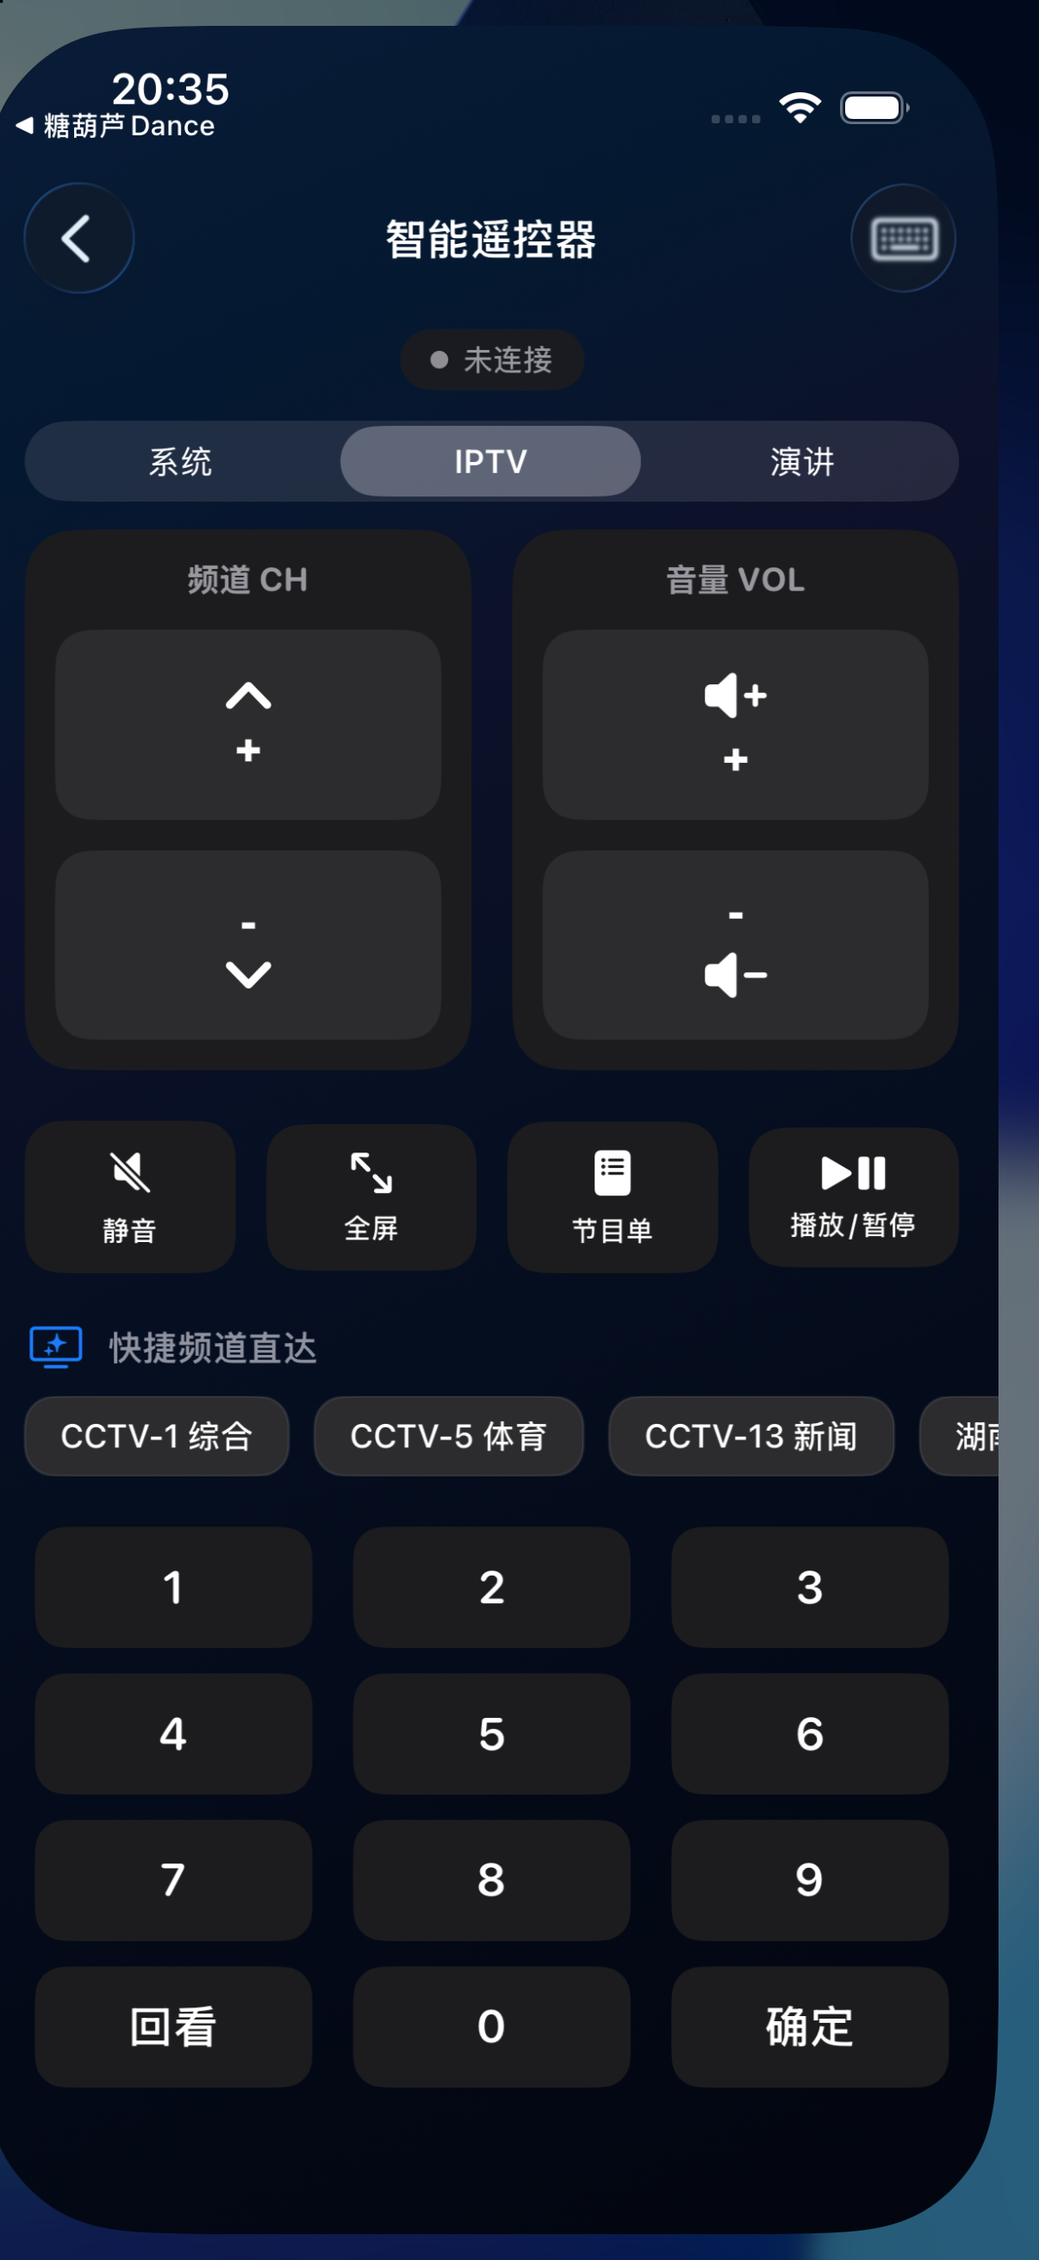
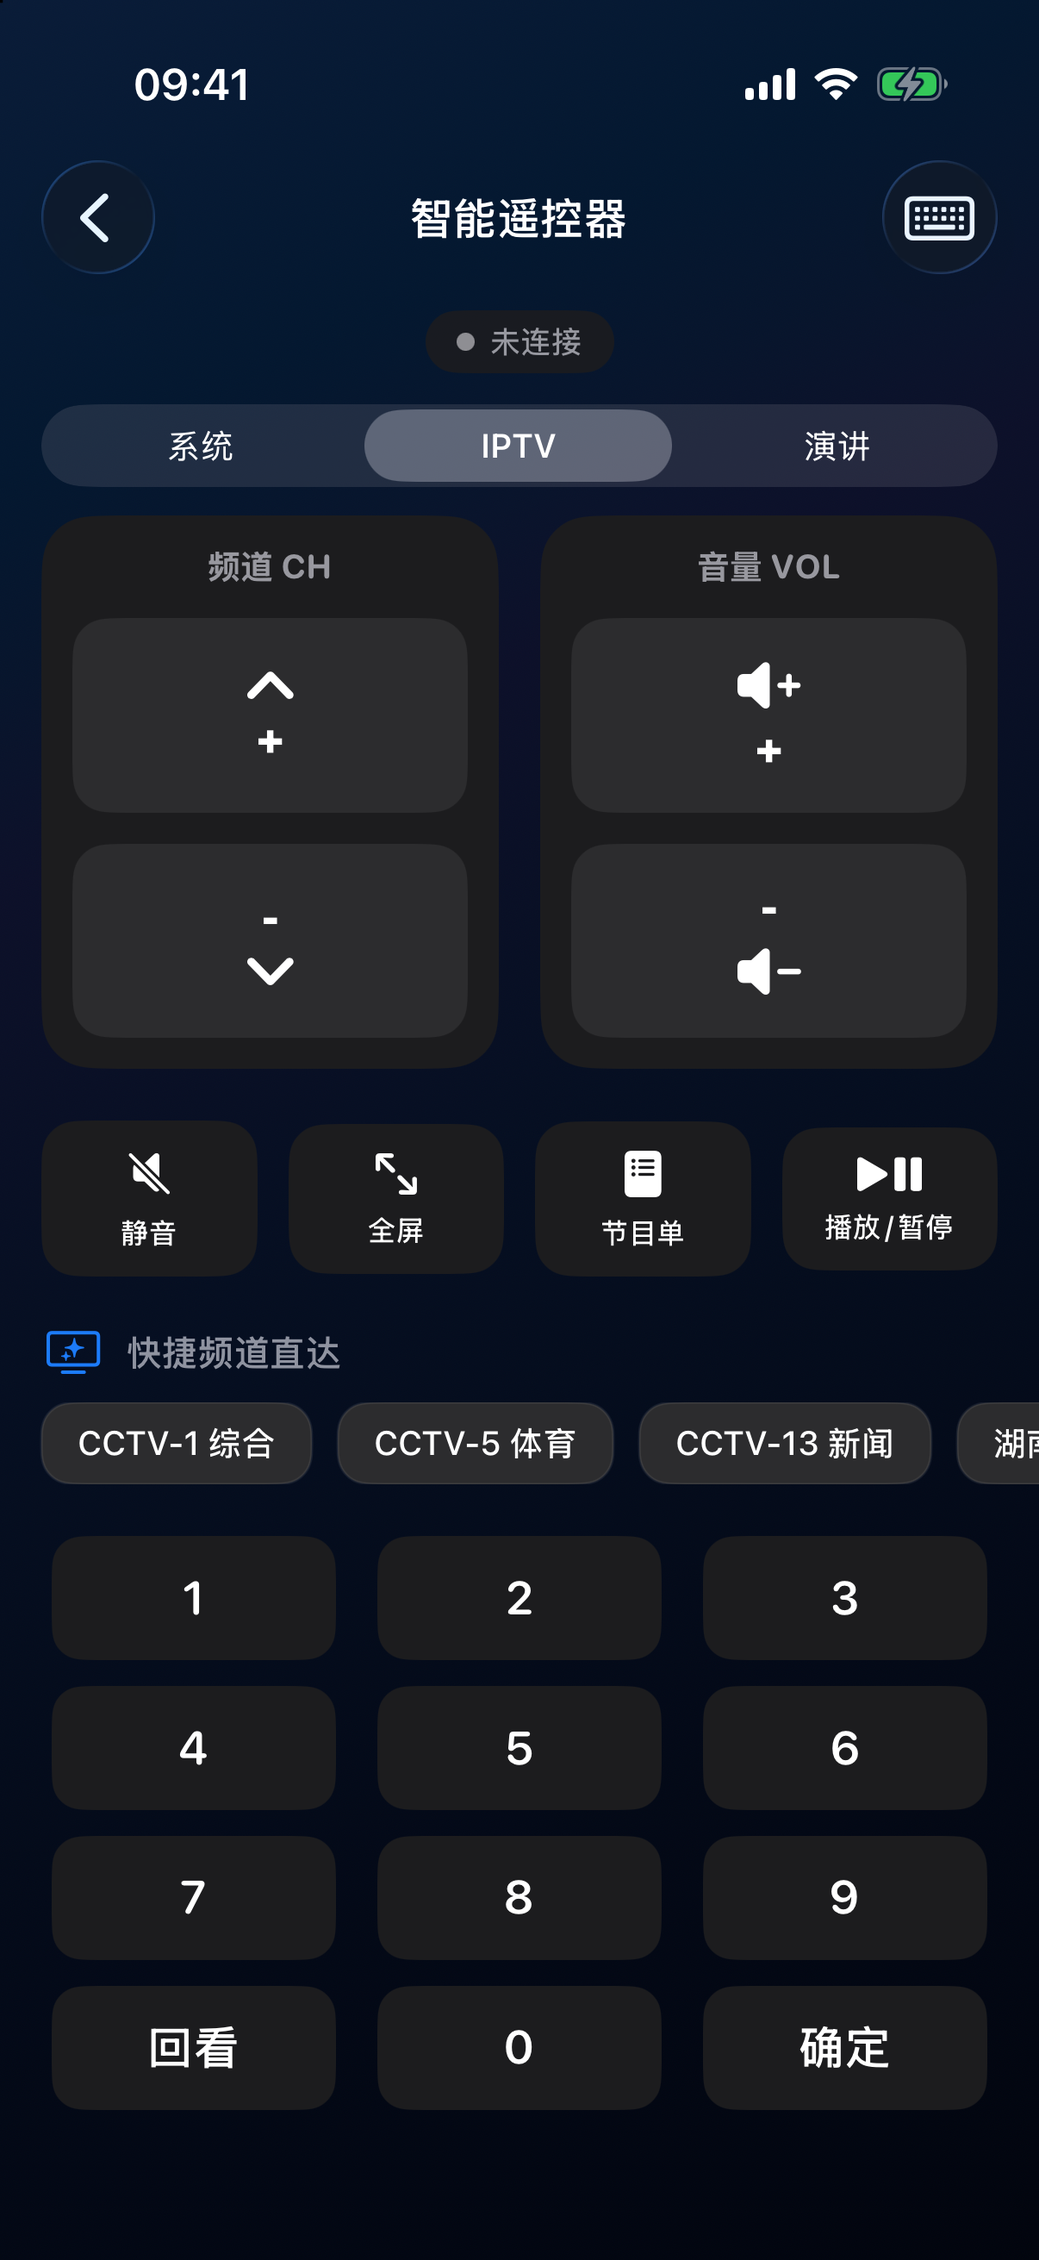
docs: 重构更新 README.md 并同步替换 App Store 官方标准 4K 纯净实机截图 (v1.0.0)

diff --git a/README.md b/README.md
@@ -1,105 +1,188 @@
-# 🍬 糖葫芦浏览器与智能遥控 (Tanghulu Remote & Browser)
+# 🍬 糖葫芦遥控器 (Tanghulu Smart Remote & Browser)
 
-![Platform](https://img.shields.io/badge/Platform-iOS%20%7C%20tvOS%20%7C%20watchOS-blue.svg?style=for-the-badge)
-![Swift](https://img.shields.io/badge/Swift-5.9+-orange.svg?style=for-the-badge)
-![AI](https://img.shields.io/badge/Edge%20AI-MLX%20%7C%20CoreML-purple.svg?style=for-the-badge)
-![TestFlight](https://img.shields.io/badge/TestFlight-Beta-0070C9.svg?style=for-the-badge)
+![Platform](https://img.shields.io/badge/Platform-iOS%2017.0+%20%7C%20watchOS%2010.0+%20%7C%20tvOS%2017.0+-007AFF.svg?style=for-the-badge&logo=apple)
+![Swift](https://img.shields.io/badge/Swift-5.9+-FA7343.svg?style=for-the-badge&logo=swift)
+![AI](https://img.shields.io/badge/Edge%20AI-MLX%20LLM%20%7C%20CoreML-8A2BE2.svg?style=for-the-badge&logo=openai)
+![Version](https://img.shields.io/badge/Version-1.0.0-34C759.svg?style=for-the-badge)
+![License](https://img.shields.io/badge/License-Proprietary-gray.svg?style=for-the-badge)
 
-> **“将边缘计算与 Apple 极致生态完美融合的客厅革命。”**
-> 
-> 糖葫芦不仅是一款专为智能电视和 Apple TV 设计的增强型遥控与大屏浏览器应用，更是一个**基于端侧大模型 (On-Device LLM)** 与 **实时计算机视觉 (Vision)** 构建的多屏互动引擎。它旨在打破物理遥控器的限制，重塑大屏多媒体娱乐、跨设备通讯及无障碍浏览的极致体验。
-
----
-
-## 📸 应用展示 (Screenshots)
-
-| 设备发现 | 浏览器控制 |
-| :---: | :---: |
-| <img src="screenshot/设备发现.PNG" width="300" /> | <img src="screenshot/浏览器控制.PNG" width="300" /> |
-| **视频控制** | **设置** |
-| <img src="screenshot/视频控制.PNG" width="300" /> | <img src="screenshot/设置.PNG" width="300" /> |
+> **“融合端侧前沿大模型与 Apple 极致生态的客厅大屏交互革命。”**
+>
+> 糖葫芦遥控器（`HSBRemoteBrowserTV` / `HSBWatchCompanion`）是一款专为 **Apple TV** 与客厅智能大屏量身定制的**双模无线遥控与端侧 AI 交互中心**。它不仅打破了传统实体遥控器的单一物理按键限制，更基于 **Apple Silicon MLX 纯血端侧大模型矩阵**、**5.5x 微操触控板**、**RTI 实时软键盘同步** 与 **大屏 WebKit 深度控制通道**，为用户带来影音娱乐、网页浏览、文档演说与智能管家的极致交互体验。
 
 ---
 
-## 🔥 核心特性与技术巅峰 (Core Features)
+## 📸 精选界面展示 (Screenshots)
 
-### 🤖 1. 端侧大模型驱动 (On-Device Edge AI)
-* **私有大模型算力中心**：创新性地将 iOS App (iPhone/iPad) 化身为“掌上 AI 服务器”。通过深度集成 `MLX-Swift` 与 `CoreML`，在本地直接运行先进的大语言模型 (LLM)，并为局域网内的 Apple TV (tvOS) 提供毫无延迟的专属翻译与智能推理服务，彻底摆脱云端依赖，数据 100% 隐私绝对安全。
-* **智能页面重构**：大模型根据大屏浏览场景，实时生成并注入 JavaScript 脚本，自动屏蔽广告、提取核心视频流、重排复杂网页，实现“PC 端网页，电视端顶级体验”。
-* **断点续传加载**：自研高可用大模型下载与存储引擎，支持超大参数模型的断点续传与动态分块加载，榨干极致性能。
-
-### 👁 2. 毫秒级 OCR 视频实时字幕翻译 (Real-time Vision Translation Pipeline)
-* **动态视觉捕获**：利用 Apple Vision 框架，精准锁定大屏视频底部 20% 的字幕区域，在 60FPS 的视频播放中实现无掉帧的文字提取。
-* **高性能内存池 (Flyweight Pattern)**：独创的翻译缓存调度机制与 NSCache 享元模式拦截重复请求，配合严格的并发锁与自动释放池 (Autoreleasepool) 彻底消除循环引用，将翻译延迟降至毫秒级。
-
-### ⚡ 3. 超低延迟 P2P 局域网通讯 (Ultra-low Latency Network)
-* **空间控制引擎**：通过底层 UDP 广播、多播 DNS (Bonjour) 协议及自动 NAT 穿透，实现 iPhone/Apple Watch 与 Apple TV 之间的极速发现与连接。
-* **高帧率光标与手势**：指尖滑动即刻同步电视光标，支持 120Hz 丝滑触控映射，彻底告别传统红外/蓝牙遥控器的迟滞感。
-
-### ⌚ 4. 苹果全家桶生态协同 (Apple Ecosystem Synergy)
-* **watchOS 独立主控**：在 Apple Watch 上直接控制电视播放进度、音量与焦点，抬腕即控。
-* **三端状态同步**：iOS (Remote)、tvOS (Player/Browser)、watchOS (Companion) 三端无缝流转，书签、历史记录与播放状态跨设备实时同步。
-
-### 🧩 5. 糖葫芦全生态矩阵万能遥控 (Universal Ecosystem Controller)
-作为糖葫芦生态的核心枢纽，iOS 遥控器能智能识别当前大屏端运行的应用类型，并动态提供专属的控制与 AI 服务面板：
-* **🌐 糖葫芦浏览器 (Tanghulu Browser)**：将手机化身为 120Hz 高精度触控板。实现大屏上的丝滑光标移动、多标签页快速切换与 DOM 元素精准点击；同时直接调用手机端大模型，为大屏网页提供实时翻译与动态去广告脚本。
-* **📺 糖葫芦TV (Tanghulu TV)**：提供沉浸式的影音追踪面板。支持极速盲操拖拽进度条、音量调节，以及一键切换多语言音轨与外挂字幕；并能一键唤醒大屏 OCR 实时提取，由手机端 AI 返回超低延迟的字幕翻译。
-* **🛜 糖葫芦投屏 (Tanghulu Cast)**：实现流媒体的零延迟精准掌控，双端极速同步投屏播放状态。独创的互动通道，让您在手机端键盘打字即可直接将弹幕、消息或控制指令发送至电视大屏。
-* **📄 糖葫芦PDF (Tanghulu PDF)**：大屏演说级翻页神器。将手机化身为专业幻灯片激光笔，支持盲滑翻页、极速跳页，甚至能通过手机直接在大屏文档上对核心文本或图片进行焦点批注，是会议汇报与教学演示的完美搭档。
+| 1. 系统级双模遥控 | 2. IPTV 直播流控制 | 3. PDF 大屏演说投屏 |
+| :---: | :---: | :---: |
+| <img src="HSBWatchApp/fastlane/screenshots/zh-Hans/1_system_remote.png" width="260" /> | <img src="HSBWatchApp/fastlane/screenshots/zh-Hans/2_iptv_remote.png" width="260" /> | <img src="HSBWatchApp/fastlane/screenshots/zh-Hans/3_pdf_presentation.png" width="260" /> |
+| **4. AI 模型管理中心** | **5. AI 智能助手调用** | **6. 糖葫芦生态矩阵** |
+| <img src="HSBWatchApp/fastlane/screenshots/zh-Hans/5_ai_model_center.png" width="260" /> | <img src="HSBWatchApp/fastlane/screenshots/zh-Hans/6_ai_assistant.png" width="260" /> | <img src="HSBWatchApp/fastlane/screenshots/zh-Hans/4_ecosystem_about.png" width="260" /> |
 
 ---
 
-## 🧭 技术路线与架构演进 (Architecture & Roadmap)
+## 🔥 核心特性与技术亮点 (Core Features)
 
-本项目采用超大规模工程要求的**模块化 Monorepo 架构**进行开发，确保极高的可维护性与扩展性：
-
-- 🧱 **Framework 级解耦**：彻底剥离基础组件 (`HSBCommon`)、通讯矩阵 (`HSBShare`) 与核心业务 (`HSBBrowser`)，通过严格的头文件管理与依赖注入，实现多 Target 极速编译。
-- 🛡 **内存与并发安全**：抛弃易致死锁的传统 GCD 堆砌，全面拥抱 Swift 现代并发模型 (`async/await`, `Actor` 隔离)，保障极端长链接与重度 AI 推理下的 0 崩溃率。
-
----
-
-## 🚀 快速体验 (TestFlight Beta)
-
-我们诚邀您感受未来客厅的交互形态，加入我们的公开 Beta 测试：
-
-👉 **[点击这里，立刻加入 TestFlight 抢先体验](https://testflight.apple.com/join/uZz9NZz4)**
-
-*(支持设备：iPhone / iPad / Apple TV / Apple Watch)*
+### 🔀 1. 双模无线遥控架构 (Dual-Mode Remote Architecture)
+独创双通道协同遥控体系，兼顾系统级实体控制与大屏网页深度交互：
+* **大屏专有浏览器通道 (Screen Channel)**：
+  - 与 tvOS 端「hsbtvbrowser」大屏浏览器基于 Bonjour `_thltv._tcp` 专有协议长链接通信；
+  - **5.5x 超高灵敏度微操触控板**：内置 1000×1000 虚拟空间坐标重置算法，手指滑动无死角；
+  - **丝滑惯性滑动**：采用 8 阶二次缓出 (Quad Ease-Out) 60FPS 衰减曲线，呈现丝滑自然的阻尼滚动手感；
+  - **大屏 WebKit 深度控制**：支持原生 DOM 元素拾取、精准点击、长按选区拖拽与动态 JavaScript 脚本实时注入。
+* **Apple TV 原生系统通道 (Native Channel)**：
+  - 针对 tvOS 操作系统级底座，支持 Bonjour 并发扫描与端口多路唤醒 (3689 / 7000 / 49152)；
+  - 提供系统级 **Home 键**、**Menu 返回键**、**设备休眠/唤醒**、以及机身侧边实体物理音量键双向静默联动；
+  - 即便 tvOS 浏览器未开启或置于后台，依然能作为全功能 Apple TV 原生遥控器使用。
 
 ---
 
-## 🛠 开发者：编译与部署指南 (Build & Deployment)
+### 🤖 2. 端侧纯血 MLX 大模型矩阵 (On-Device Edge AI Matrix)
+创新性地将 iPhone 打造为“客厅边缘 AI 推理算力中心”，深度整合 `mlx-swift` 与 Apple Silicon 神经引擎，实现 100% 本地离线运行，零云端隐私泄露风险：
 
-本项目涵盖了 iOS、tvOS 和 watchOS 端的全套源码。如果您是开发者并希望参与构建：
+| 官方推荐模型 | 仓库标识 (Repo ID) | 模型定位 | 核心业务场景 |
+| :--- | :--- | :---: | :--- |
+| **Qwen1.5-0.5B (官方推荐)** | `mlx-community/Qwen1.5-0.5B-Chat-4bit` | 轻量多语言通识 | **场景 1：同声传译**（中英日韩多语言即时互译与字幕校对） |
+| **SmolLM-135M (极速体验)** | `mlx-community/SmolLM-135M-Instruct-4bit` | 毫秒级极速响应 | **场景 2：电视控制 JS 脚本生成**（全屏、夜间模式、去广告、样式重排） |
+| **Gemma-2-2B-IT (深度推理)** | `mlx-community/gemma-2-2b-it-4bit` | Google 深度指令遵循 | **场景 3：客厅智能管家**（Apple TV 连接排障、HDMI-CEC 联动、客厅百科问答） |
 
-### 1. 极致的开发环境要求
-- **IDE**: Xcode 15.0 及以上版本 (建议最新)
-- **OS**: macOS 14.0+ (Sonoma 及以上)
-- **Swift**: 5.9+ (深度使用宏与现代并发)
-- **System SDKs**: iOS 15.0+ / watchOS 8.0+ / tvOS 15.0+
+* **完整生命周期管理**：支持一键多源断点下载、国内镜像加速通道 (`hf-mirror.com`)、高精度百分比进度条流转、暂停/恢复；
+* **错误自愈与死锁防护**：底层遇到弱网或中断发出的 `-1.0` 错误信号，毫秒级转入 `Failed` 状态并重置进度，解除假死，支持随时一键重试；
+* **物理缓存安全清理**：支持左滑清除本地沙盒 Safetensors 权重文件并安全解绑反激活，释放宝贵的手机存储空间；
+* **自定义大模型 API 模式**：兼容 OpenAI / DeepSeek / Ollama（局域网私有部署）/ LM Studio 标准 `/chat/completions` 协议，无需下载大体积权重即可秒连私有算力；
+* **三级容错无缝兜底**：物理大模型未激活、显存不足或处于模拟器环境时，**100% 自动降级至内置离线端侧智能引擎**，保证零白屏、零报错、秒级流式打字输出。
 
-### 2. 自动化构建与本地运行
-```bash
-# 1. 获取最新源码并进入工程目录
-git clone https://github.com/your-org/HSBRemoteBrowserTV.git
-cd HSBRemoteBrowserTV
+---
 
-# 2. 启动 Xcode 工作空间 (请打开 .xcworkspace)
-open HSBWatchApp.xcworkspace
+### ⌨ 3. RTI 实时软键盘大屏输入同步 (Real-Time Text Input)
+* **大屏输入痛点终结者**：告别使用传统遥控器在电视屏幕上逐字移动光标输入的痛苦体验；
+* **实时键盘流**：手机端直接调起系统级软键盘，拼音、英文、符号输入即时单向/双向推送到 Apple TV 当前聚焦的输入框或搜索栏中。
 
-# 3. 依赖解析 (SPM)
-# 项目内置数十个 SPM 依赖（如 mlx-swift, yyjson, swift-transformers 等）
-# Xcode 将在首次打开时自动解析并编译 Metal 加速内核。
+---
 
-# 4. 选择对应平台的 Target (HSBBrowserApp / HSBWatchCompanion) 并 Cmd+R 运行。
+### 📺 4. 客厅流媒体与演说全生态矩阵 (Tanghulu Ecosystem Matrix)
+* **🌐 糖葫芦浏览器 (Tanghulu Browser)**：电视大屏 WebKit 网页无障碍浏览，支持广告智能过滤与夜间护眼配色；
+* **📺 IPTV 直播流多频道路由**：提供客厅电视直播流频道快捷切换、电子节目单 (EPG) 浏览与媒体全屏控制；
+* **📄 糖葫芦 PDF 大屏演说神器**：会议与课堂汇报利器，手机化身为激光笔与无线翻页器，支持极速跳页与大屏批注；
+* **⌚ watchOS 独立随身主控**：配备独立的 Apple Watch 应用，抬腕即可调控电视播放、音量与导航。
+
+---
+
+## 🏛 核心系统架构图 (Architecture)
+
+```mermaid
+flowchart TD
+    subgraph Client["📱 iOS 配套端 (HSBWatchCompanion)"]
+        UI["Modern UI 面板\n(D-Pad / 触控板 / 键盘 / AI中心)"]
+        Coordinator["DualModeRemoteCoordinator\n(双模通讯协调器)"]
+        LLMManager["HSBLocalLLMManager\n(AI 引擎三级调度中心)"]
+    end
+
+    subgraph Channels["📡 双模无线通信通道"]
+        ScreenCh["大屏专有通道 (Screen Channel)\nBonjour _thltv._tcp JSON / 5.5x 微操"]
+        NativeCh["Apple TV 原生通道 (Native Channel)\nCompanion / MRP / 端口唤醒"]
+    end
+
+    subgraph TV["📺 客厅大屏设备 (Apple TV)"]
+        TVOS_Browser["tvOS hsbtvbrowser 应用\n(WebKit / DOM点击 / JS注入)"]
+        TVOS_System["tvOS 系统底座\n(Home / Menu / 音量 / 休眠唤醒)"]
+    end
+
+    subgraph AI_Engine["🧠 AI 算力矩阵"]
+        MLX_Physical["端侧纯血 MLX 物理大模型\n(Qwen1.5 / SmolLM / Gemma-2)"]
+        Custom_API["自定义大模型 API 模式\n(Ollama / DeepSeek / OpenAI)"]
+        Builtin_Engine["内置离线端侧智能引擎\n(100% 秒级兜底保障)"]
+    end
+
+    UI --> Coordinator
+    UI --> LLMManager
+    Coordinator --> ScreenCh --> TVOS_Browser
+    Coordinator --> NativeCh --> TVOS_System
+    LLMManager --> MLX_Physical
+    LLMManager --> Custom_API
+    LLMManager -. 降级兜底 .-> Builtin_Engine
+    LLMManager -- 生成控制脚本 --> ScreenCh
 ```
 
 ---
 
-## 💬 参与共建与技术反馈
+## 🧪 自动化测试与质量验收 (Testing & Verification)
 
-糖葫芦遥控器的成长离不开极客与用户的支持。
-- **ISSUE 追踪**：如果遇到任何功能异常或有狂野的功能构想，请提交 GitHub Issue。
-- **App 内直连**：通过“设置 -> 反馈”实时上传运行日志以协助排查。
+项目内置针对端侧大模型全生命周期与双模通信的自动化集成测试套件 [`HSBLLMVerificationTest.m`](HSBWatchApp/HSBWatchCompanion/HSBLLMVerificationTest.m)，经由多代理团队与独立法医级审计代理 **Sentinel Victory Auditor** 验证，通过率 **100% (Pass: 11, Fail: 0)**：
+
+- ✅ **Test 1**：三大官方大模型初始化与 ID 规范校验通过
+- ✅ **Test 2**：三大官方大模型远端镜像源连通正常 (HTTP 200)
+- ✅ **Test 3**：模型下载状态机流转 (None -> Downloading 42% -> Finished 100%) 与通知正常
+- ✅ **Test 4**：捕获异常信号自动转为 Failed 状态并重置进度，彻底解除死锁与假死
+- ✅ **Test 5**：本地缓存检测与安全删除接口运转正常 (沙盒权重安全清除与解绑)
+- ✅ **Test 6.1**：模型 1 (Qwen1.5-0.5B) 激活并完成【同声传译】多语言业务调用
+- ✅ **Test 6.2**：模型 2 (SmolLM-135M) 激活并生成【电视控制 JS 脚本】(`requestFullscreen`)
+- ✅ **Test 6.3**：模型 3 (Gemma-2-2B-IT) 激活并完成【智能管家问答】结构化解答
+- ✅ **Test 7**：自定义大模型 API 模式（Ollama/DeepSeek）状态与描述联动正常
+- ✅ **Test 8**：物理模型空置或弱网异常时，100% 自动无缝降级至内置端侧智能引擎并正确生成 JS 脚本
+- ✅ **Test 9**：环境防御与工程规范校验通过 (产物版本号严格为 1.0.0, 模拟器 Metal 算子安全隔离生效, 环境变量防御就绪)
+
+---
+
+## 🛠 编译与开发指南 (Build & Run Guide)
+
+### 1. 开发环境要求
+- **macOS**: 14.0+ (Sonoma 或更高版本，建议 Apple Silicon M 系列芯片)
+- **Xcode**: 15.0+ / 16.0+
+- **SDK 要求**: iOS 17.0+ / watchOS 10.0+ / tvOS 17.0+
+- **依赖管理**: Swift Package Manager (SPM，内置自动解析 `mlx-swift`, `swift-transformers` 等)
+
+### 2. 源码获取与工程构建
+```bash
+# 1. 克隆代码仓库并进入工程目录
+git clone https://github.com/never88gone/HSBRemoteBrowserTV.git
+cd HSBRemoteBrowserTV
+
+# 2. 使用 Xcode 打开主工程
+open HSBWatchApp/HSBWatchApp.xcodeproj
+
+# 3. 命令行静默编译检查 (iOS 配套端)
+xcodebuild -project HSBWatchApp/HSBWatchApp.xcodeproj \
+           -scheme HSBWatchCompanion \
+           -configuration Debug \
+           -destination 'generic/platform=iOS' \
+           build
+
+# 4. 命令行静默编译检查 (Apple Watch 端)
+xcodebuild -project HSBWatchApp/HSBWatchApp.xcodeproj \
+           -scheme 'HSBWatchApp Watch App' \
+           -configuration Debug \
+           -destination 'generic/platform=watchOS' \
+           build
+```
+
+### 3. 在模拟器中快速运行自动化测试套件
+```bash
+# 启动 iPhone 模拟器并执行内置大模型全生命周期自检套件
+xcrun simctl launch --terminate-running-process <SIMULATOR_UDID> com.never88gone.thlbrowserios -UITestRunLLMVerification YES
+
+# 查看输出的测试报告
+cat /tmp/llm_test_report.txt
+```
+
+---
+
+## 🛡 App Store 审核规范与纯净保护 (App Store Compliance)
+
+- **纯净遥控保护机制**：未连接真实局域网电视大屏前，应用自动折叠专有浏览器标签与特殊敏感调试面板，呈现标准规范的电视遥控界面，确保完全符合 App Store 审核指南；
+- **完备的隐私权限说明**：
+  - `NSLocalNetworkUsageDescription`：清楚阐述局域网 Bonjour 协议自动发现 Apple TV 的必要性；
+  - `NSSpeechRecognitionUsageDescription`：合规声明语音搜索与大屏文字听写用途；
+  - `NSMotionUsageDescription`：合规声明体感飞鼠与运动微操用途；
+- **严格的版本号管理**：主工程、Info.plist 与配置文件的 `CFBundleShortVersionString` 严格锁定并核准为 **`1.0.0`**。
+
+---
+
+## 🤝 参与共建与技术反馈
+
+糖葫芦遥控器秉持极致的用户体验与开源探索精神。
+- 🐛 **Issue 报告**：欢迎提交 GitHub Issue 交流端侧 MLX 模型适配心得或功能构想；
+- 📬 **应用内反馈**：通过「设置 -> 关于糖葫芦」直连开发团队。
 
 *—— Designed with ❤ for the ultimate big-screen experience.*
